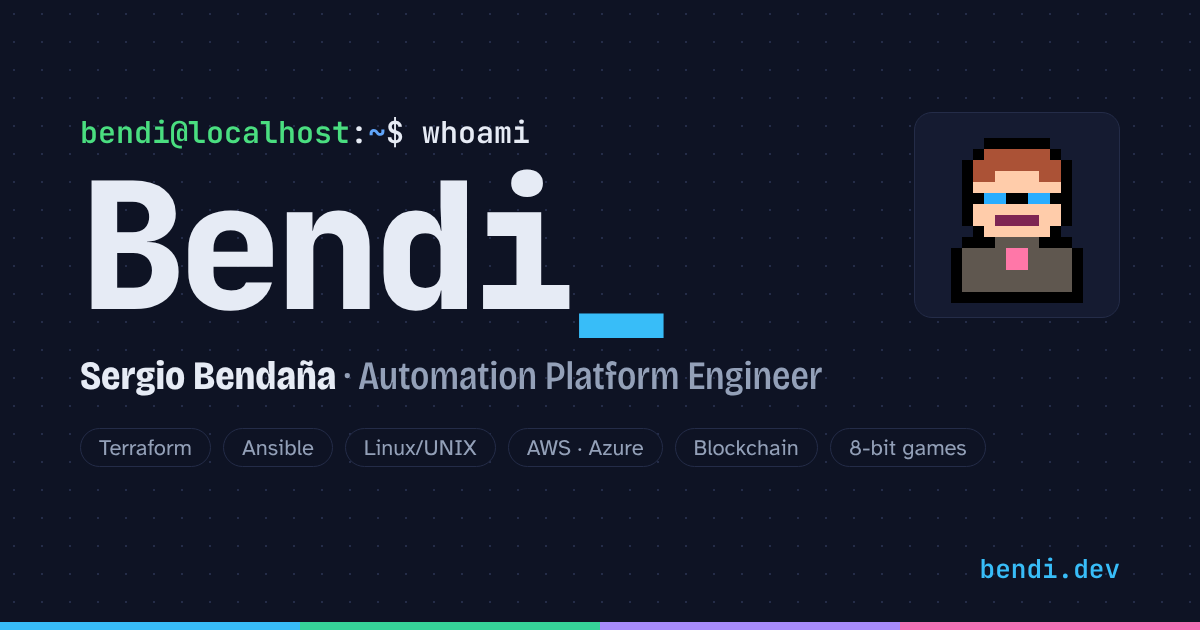
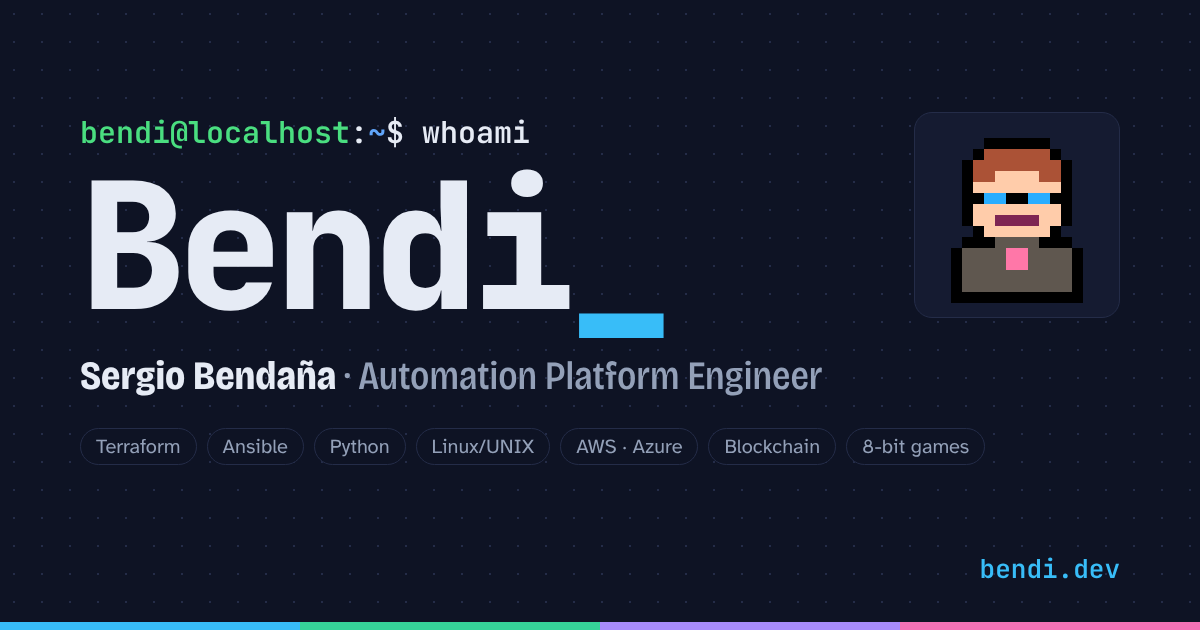
Share image: Python in the stack

Changed region(s): [[0.0617, 0.6937, 0.8325, 0.754]]

diff --git a/og.html b/og.html
@@ -18,9 +18,9 @@
   h1 .cur { color: #38bdf8; }
   .who { font: 750 40px/1.2 "Bricolage Grotesque", sans-serif; font-variation-settings: "wdth" 85; margin-top: 18px; }
   .who span { color: #93a0b8; font-weight: 500; }
-  .stack { display: flex; gap: 12px; margin-top: 28px; }
-  .stack i { font: 400 22px "Atkinson Hyperlegible", sans-serif; font-style: normal; color: #93a0b8;
-    border: 1.5px solid #242c48; background: #0e1324; border-radius: 999px; padding: 5px 18px; }
+  .stack { display: flex; gap: 10px; margin-top: 28px; }
+  .stack i { font: 400 20px "Atkinson Hyperlegible", sans-serif; font-style: normal; color: #93a0b8;
+    border: 1.5px solid #242c48; background: #0e1324; border-radius: 999px; padding: 5px 15px; }
   .me { position: absolute; right: 80px; top: 112px; width: 176px; height: 176px; image-rendering: pixelated;
     background: #151b31; padding: 14px; border-radius: 18px; border: 1.5px solid #242c48; }
   .url { position: absolute; right: 80px; bottom: 44px; font: 600 26px "JetBrains Mono", monospace; color: #38bdf8; }
@@ -33,7 +33,7 @@
     <div class="prompt"><span class="u">bendi@localhost</span>:<span class="d">~</span>$ whoami</div>
     <h1>Bendi<span class="cur">_</span></h1>
     <div class="who">Sergio Bendaña <span>· Automation Platform Engineer</span></div>
-    <div class="stack"><i>Terraform</i><i>Ansible</i><i>Linux/UNIX</i><i>AWS · Azure</i><i>Blockchain</i><i>8-bit games</i></div>
+    <div class="stack"><i>Terraform</i><i>Ansible</i><i>Python</i><i>Linux/UNIX</i><i>AWS · Azure</i><i>Blockchain</i><i>8-bit games</i></div>
   </div>
   <img class="me" src="img/bendi.svg" alt="">
   <div class="url">bendi.dev</div>

diff --git a/index.html b/index.html
@@ -12,7 +12,7 @@
 <meta property="og:title" content="Bendi · Sergio Bendaña">
 <meta property="og:description" content="20 años automatizando infraestructura, juegos de 8 bits hechos en casa y las visitas de cada proyecto.">
 <meta property="og:url" content="https://bendi.dev/">
-<meta property="og:image" content="https://bendi.dev/og.png?v=2">
+<meta property="og:image" content="https://bendi.dev/og.png?v=3">
 <meta property="og:image:width" content="1200">
 <meta property="og:image:height" content="630">
 <meta property="og:image:alt" content="Sergio Bendaña, Automation Platform Engineer">
